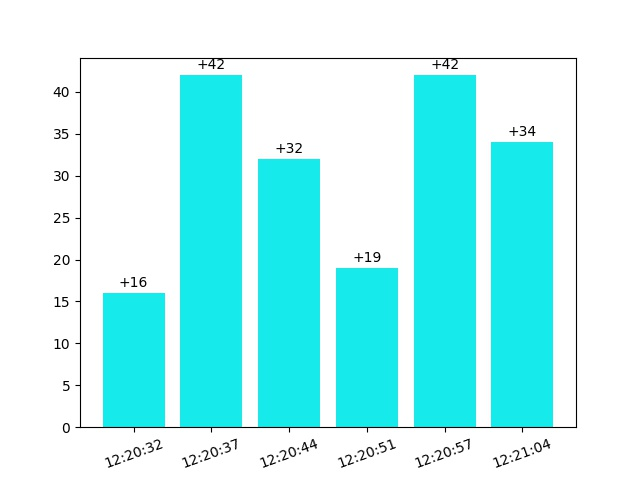
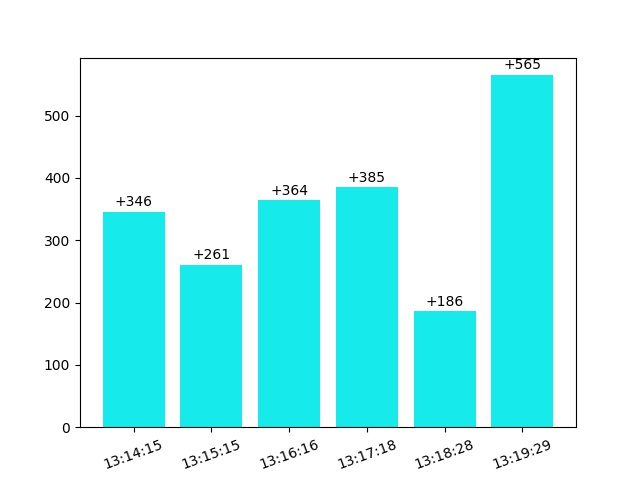
release

diff --git a/main.py b/main.py
@@ -35,7 +35,7 @@ def jam():
 class Mulai:
 	def __init__(self, username, update=1, showbar=6, output=False):
 		self.user = username
-		self.update = 5*update   #600 = 10menit
+		self.update = 60*update   #600 = 10menit
 		self.showbar = showbar
 		self.trakhir = 0
 		self.menit_awal = 0
